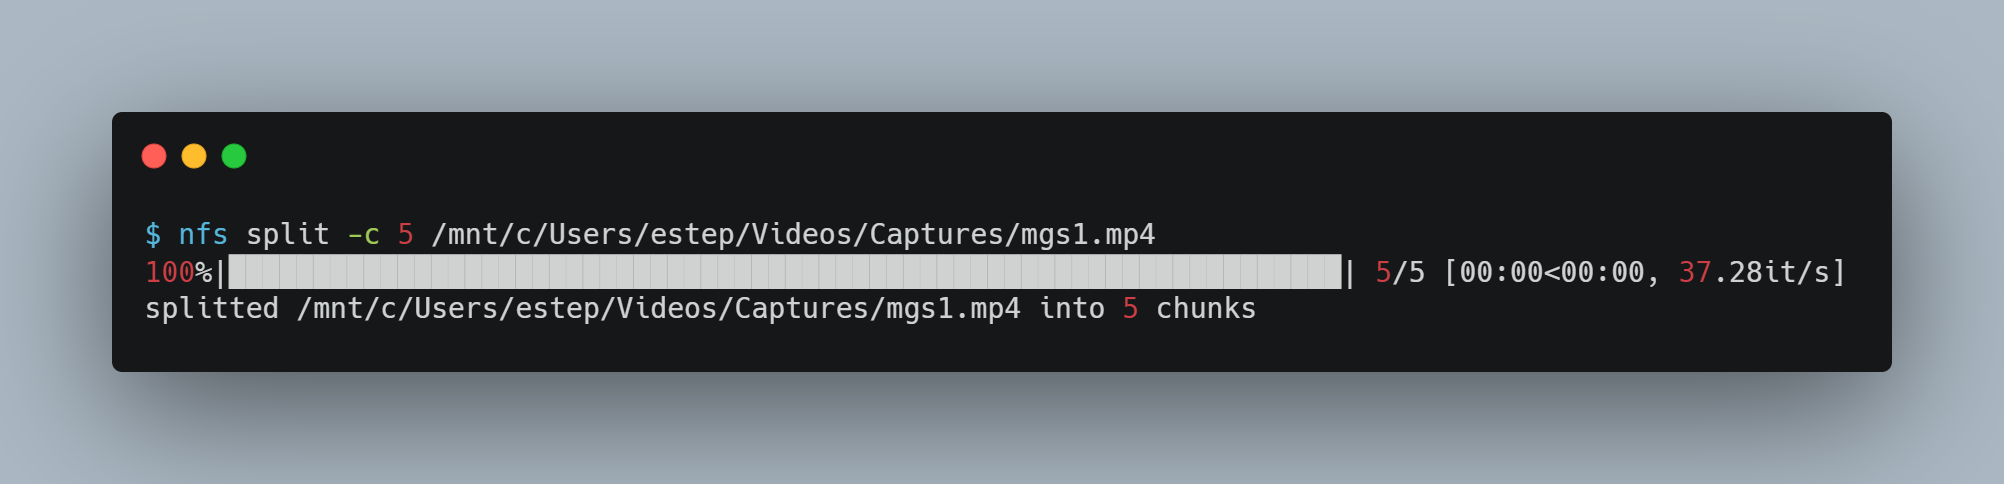
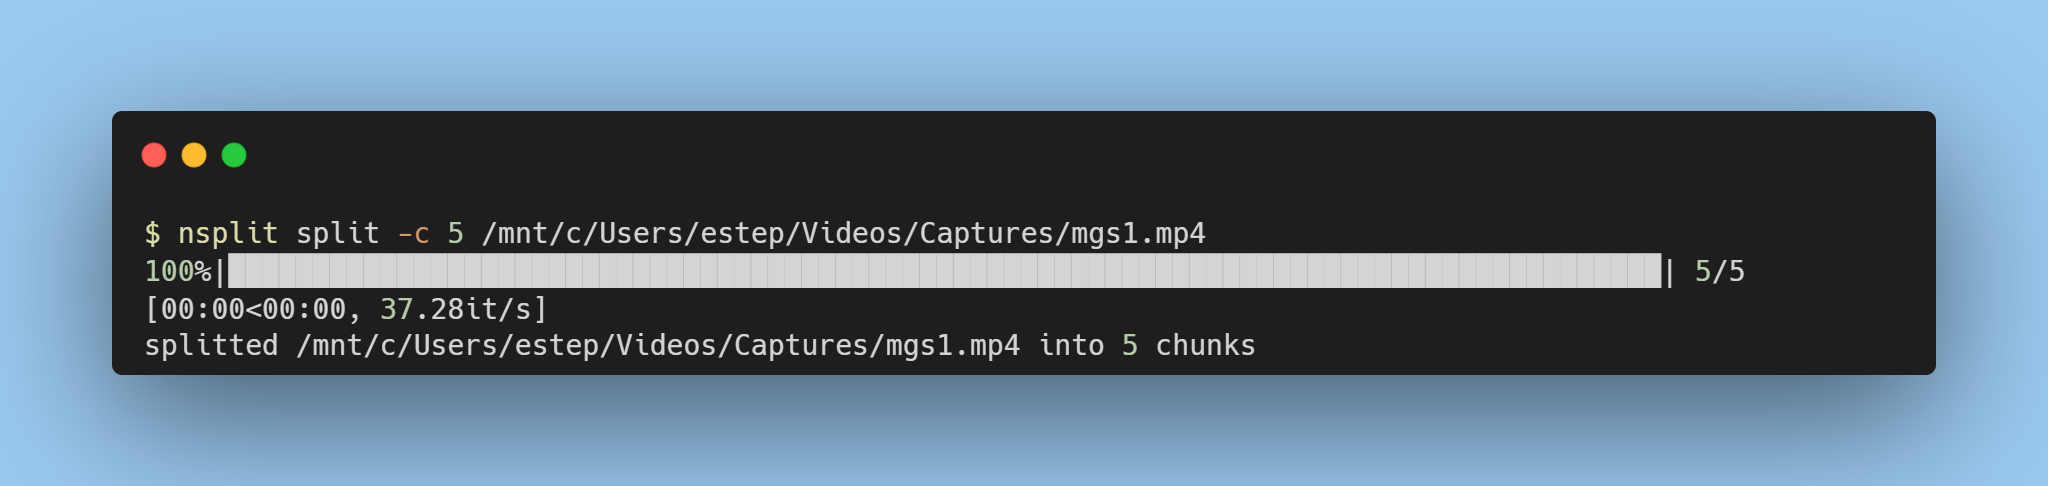
change cli from nfs to nsplit

diff --git a/README.md b/README.md
@@ -6,19 +6,19 @@
   <img src="./assets/banner.png">
 </div>
 
-Naive File Splitter (NFS) is a simple CLI tool to split a file into several smaller chunks at data level and merge them back. It does not compress or transform the original file in any way. NFS only reads the file in binary stream and writes it into chunks whose number or size is given by the user.
+Naive File Splitter is a simple CLI tool to split a file into several smaller chunks at data level and merge them back. It does not compress or transform the original file in any way. NFS only reads the file in binary stream and writes it into chunks whose number or size is given by the user.
 
 By having smaller chunks of a file instead of a large one, it allows easier and faster data download and upload, and bypasses file size limits inplaced by some cloud providers.
 
-NFS works with *any* file format.
+Naive File Splitter works with *any* file format.
 
 ## Install
 
-NFS requires *Python >= 3.5*.
+Naive File Splitter requires *Python >= 3.5*.
 
 `pip install nfs-estepona`
 
-Upon installation, a new `nfs` binary will be added to system's path.
+Upon installation, a new `nsplit` binary will be added to system's path.
 
 ## Command
 
@@ -26,7 +26,7 @@ Upon installation, a new `nfs` binary will be added to system's path.
 
 #### Usage
 
-`nfs split [OPTIONS] SRC`
+`nsplit split [OPTIONS] SRC`
 
 Split the file into several chunks by specifying EITHER:
 - number of chunks with `--chunk` flag
@@ -42,20 +42,20 @@ Options:
 
 ##### Split a file into 5 chunks
 
-`nfs split -c 5 /mnt/c/Users/estep/Videos/Captures/mgs1.mp4`
+`nsplit split -c 5 /mnt/c/Users/estep/Videos/Captures/mgs1.mp4`
 
 ```bash
-$ nfs split -c 5 /mnt/c/Users/estep/Videos/Captures/mgs1.mp4
+$ nsplit split -c 5 /mnt/c/Users/estep/Videos/Captures/mgs1.mp4
 100%|█████████████████████████████████████████████████████████████████████████████████████| 5/5 [00:00<00:00, 37.28it/s]
 splitted /mnt/c/Users/estep/Videos/Captures/mgs1.mp4 into 5 chunks
 ```
 
 ##### Split a file into chunks of 25MB each
 
-`nfs split -s 25mb /mnt/c/Users/estep/Videos/Captures/medium.webm`
+`nsplit split -s 25mb /mnt/c/Users/estep/Videos/Captures/medium.webm`
 
 ```bash
-$ nfs split -s 25mb /mnt/c/Users/estep/Videos/Captures/medium.webm
+$ nsplit split -s 25mb /mnt/c/Users/estep/Videos/Captures/medium.webm
 100%|███████████████████████████████████████████████████████████████████████████████████| 18/18 [00:08<00:00,  2.00it/s]
 splitted /mnt/c/Users/estep/Videos/Captures/medium.webm into 18 chunks
 ```
@@ -64,7 +64,7 @@ splitted /mnt/c/Users/estep/Videos/Captures/medium.webm into 18 chunks
 
 #### Usage
 
-`nfs merge [OPTIONS] SRC`
+`nsplit merge [OPTIONS] SRC`
 
 Merge NFS splitted file chunks into one.
 
@@ -83,19 +83,19 @@ Options:
 
 ##### Merge splitted file chunks into one
 
-`nfs merge /mnt/c/Users/estep/Videos/Captures`
+`nsplit merge /mnt/c/Users/estep/Videos/Captures`
 
 ```bash
-$ nfs merge /mnt/c/Users/estep/Videos/Captures
+$ nsplit merge /mnt/c/Users/estep/Videos/Captures
 100%|█████████████████████████████████████████████████████████████████████████████████████| 5/5 [00:00<00:00, 50.87it/s]
 merged splitted file chunks to /mnt/c/Users/estep/Videos/Captures/mgs1_copy.mp4
 ```
 ##### Merge splitted file chunks into one and remove chunks
 
-`nfs merge -r /mnt/c/Users/estep/Videos/Captures`
+`nsplit merge -r /mnt/c/Users/estep/Videos/Captures`
 
 ```bash
-$ nfs merge -r /mnt/c/Users/estep/Videos/Captures
+$ nsplit merge -r /mnt/c/Users/estep/Videos/Captures
 100%|█████████████████████████████████████████████████████████████████████████████████████| 5/5 [00:00<00:00, 49.96it/s]
 merged splitted file chunks to /mnt/c/Users/estep/Videos/Captures/mgs1_copy.mp4
 removed splitted file chunks
@@ -103,10 +103,10 @@ removed splitted file chunks
 
 ##### Merge splitted file chunks into one where chunks of other files exist
 
-`nfs merge /mnt/c/Users/estep/Videos/Captures`
+`nsplit merge /mnt/c/Users/estep/Videos/Captures`
 
 ```bash
-$ nfs merge /mnt/c/Users/estep/Videos/Captures
+$ nsplit merge /mnt/c/Users/estep/Videos/Captures
 found 2 splitted file chunks, choose one to proceed:
 1 - dup.mov
 2 - mgs1.mp4
